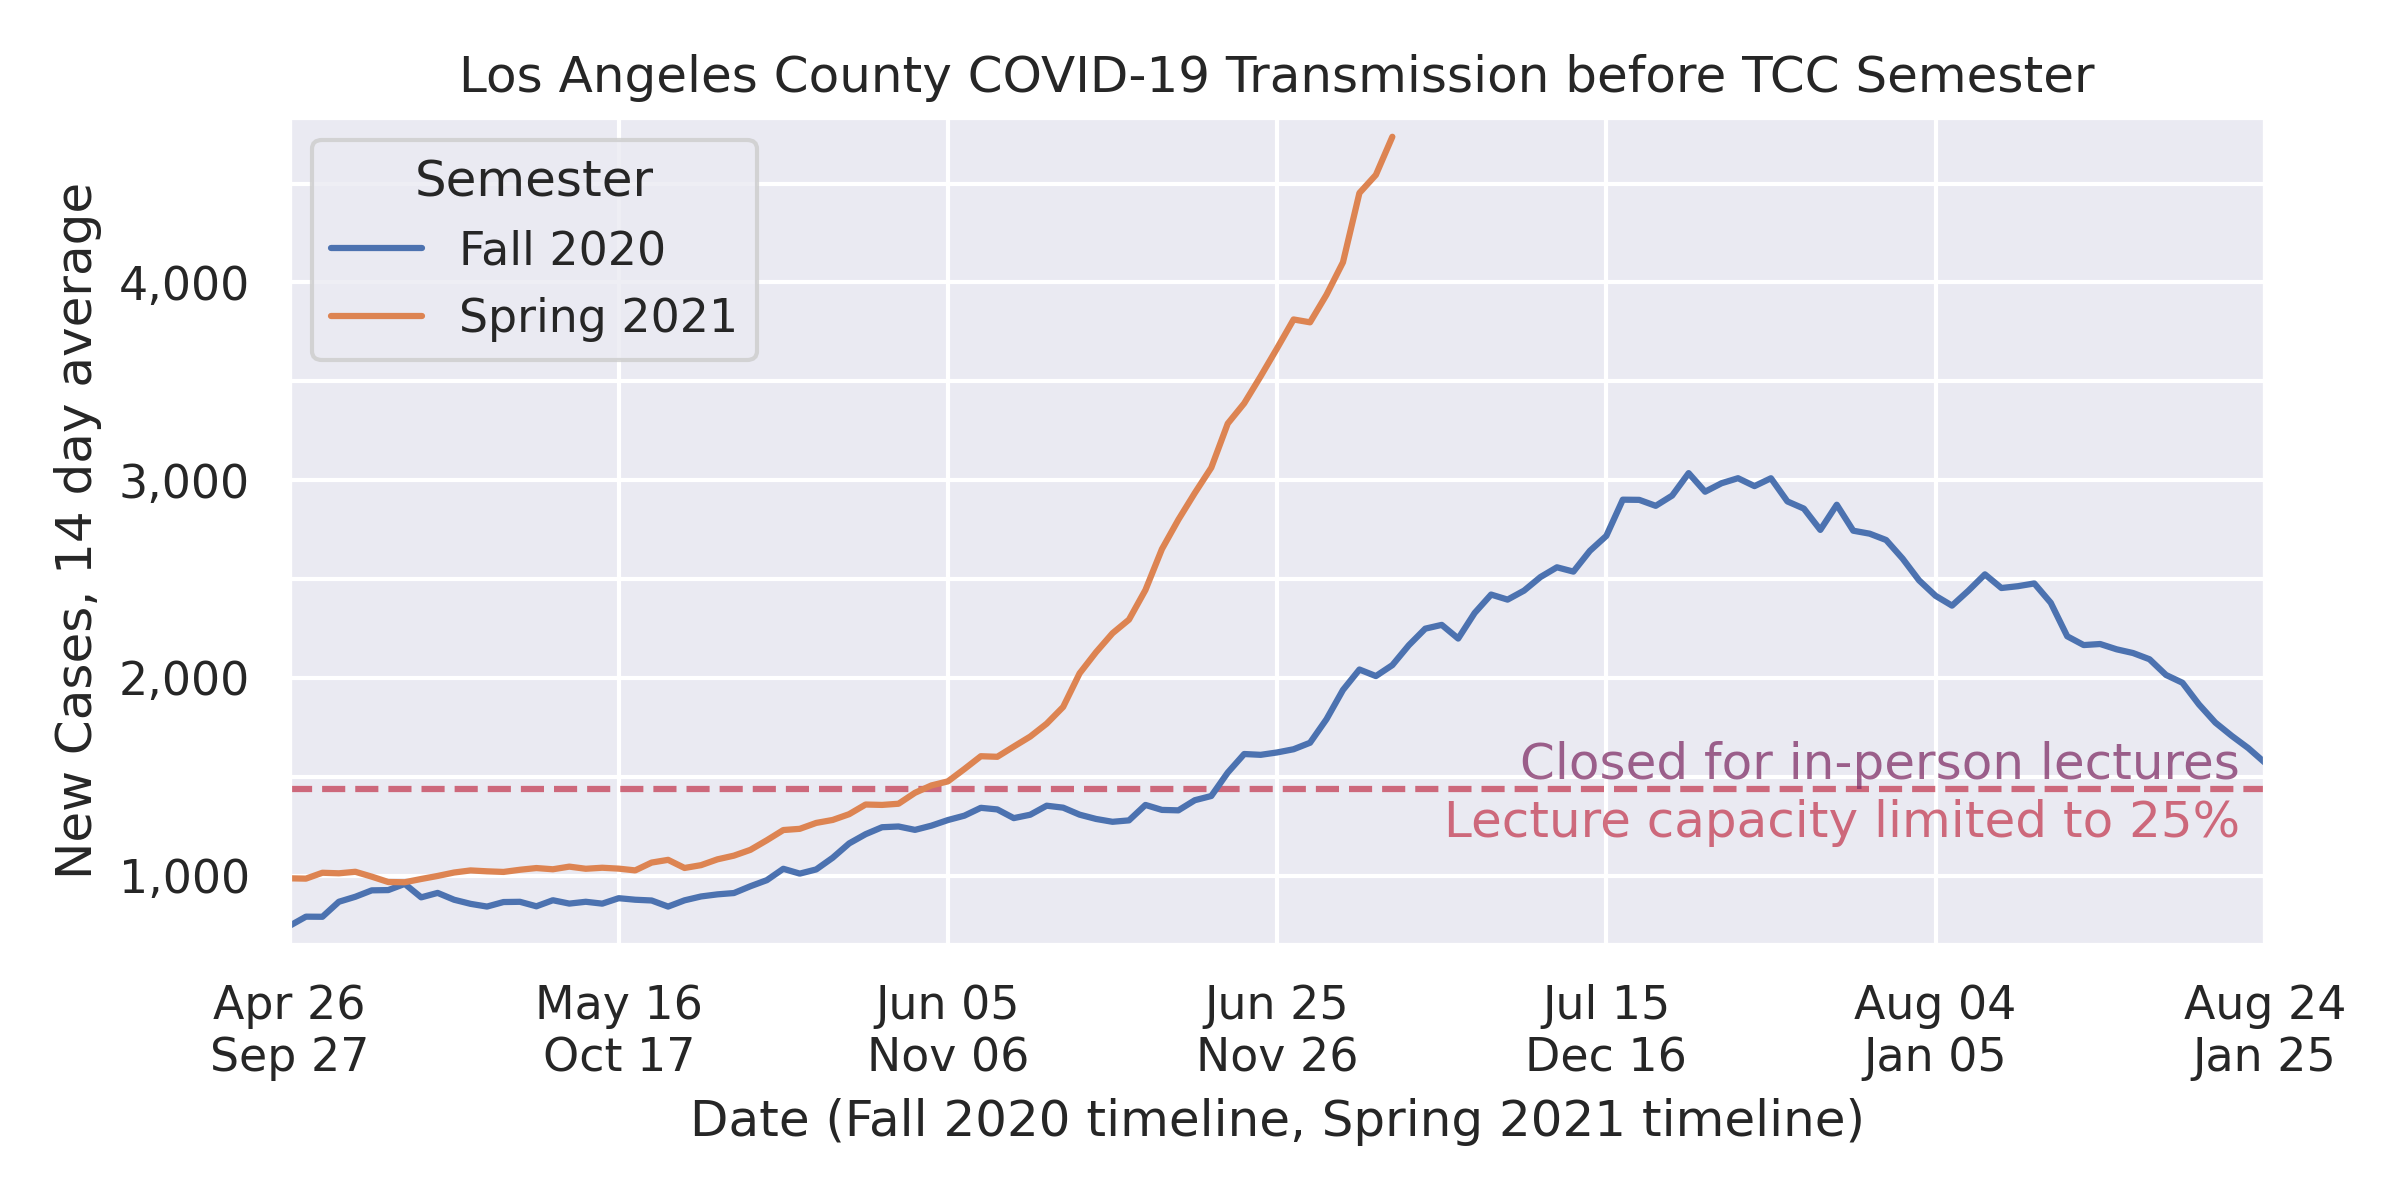
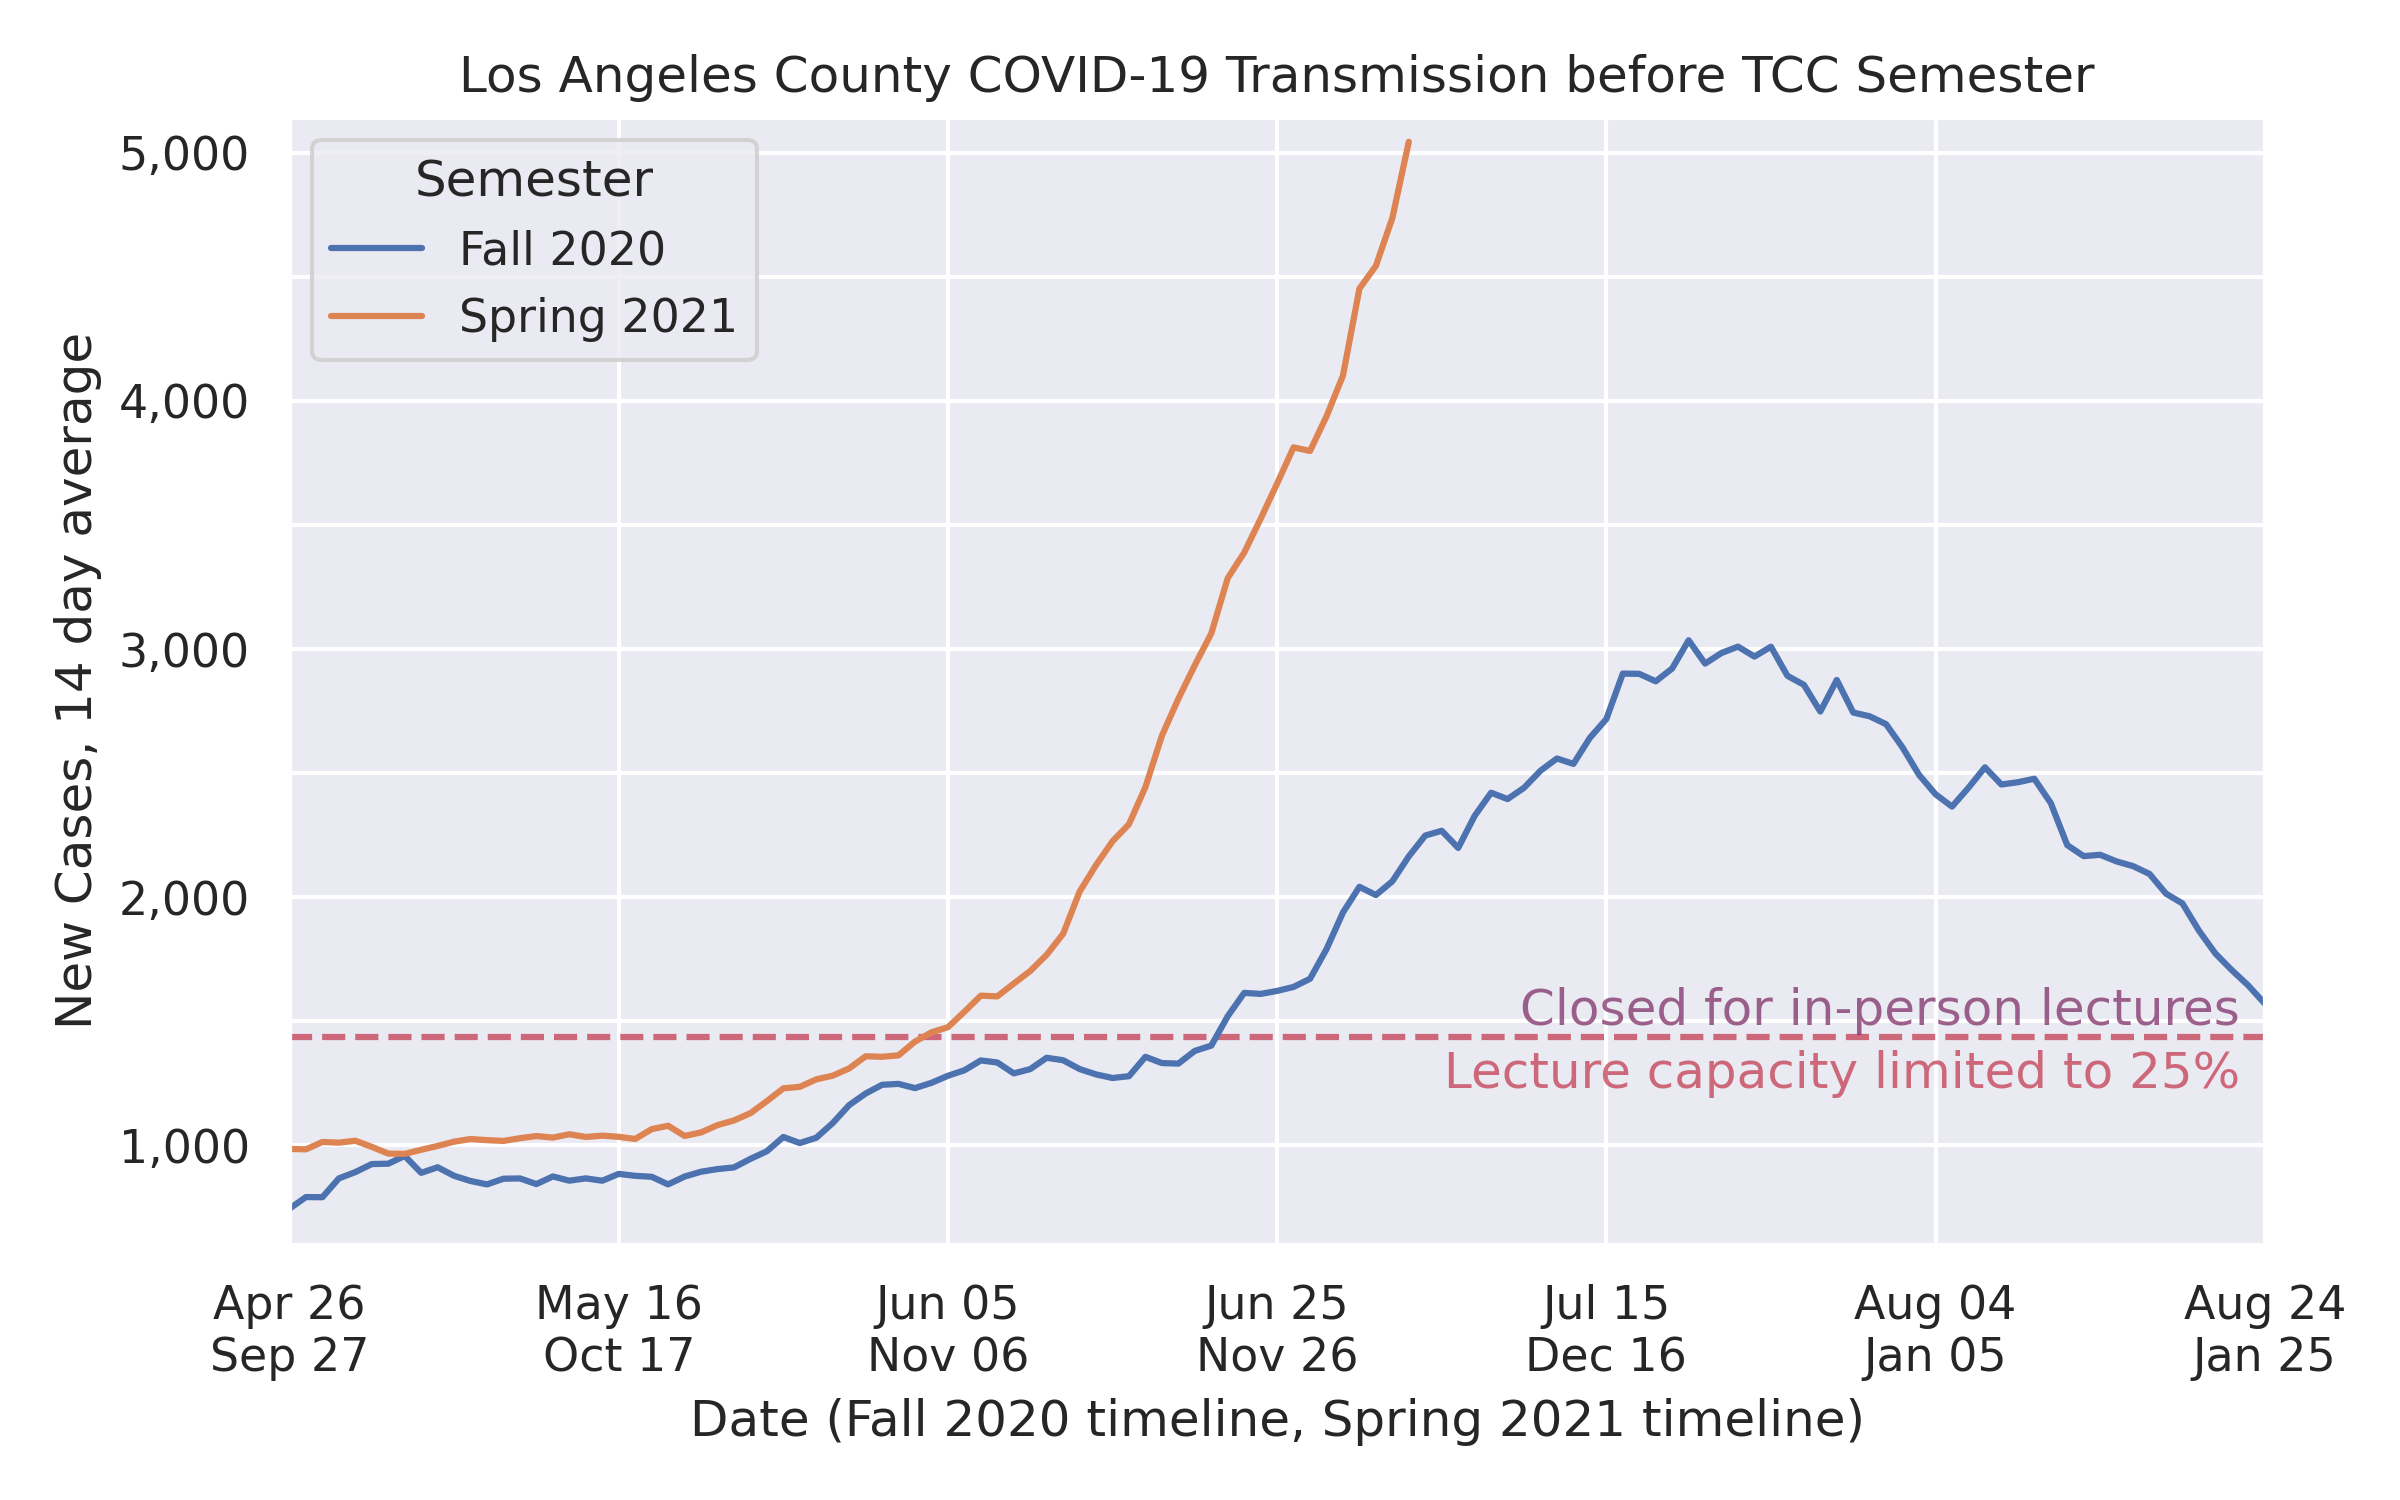
Update 2020-12-05
Graph dimensions updated to account for larger y values

diff --git a/semester_start_countdown.py b/semester_start_countdown.py
@@ -146,7 +146,7 @@ df_la = df_la.loc[:, (DATE, SEMESTER, DAYS_UNTIL_SEMESTER,
 # In[ ]:
 
 
-fig, ax = plt.subplots(figsize=(8, 4), dpi=300)
+fig, ax = plt.subplots(figsize=(8, 5), dpi=300)
 
 rate_multiplier = (10_257_557 / 1e5) / 0.500
 substantial_rate, moderate_rate = [rate_multiplier * x for x in (7, 4)]
@@ -178,7 +178,7 @@ ax.set_ylabel(NEW_CASES_AVG)
 ax.set_xlim(120, 0)
 ax.xaxis.set_major_formatter(FuncFormatter(date_axis_text))
 # ax.set_ylim(moderate_rate-vertical_pad-250, df_la[NEW_CASES_AVG].max()+100)
-ax.set_ylim(650, df_la[NEW_CASES_AVG].max()+100)
+ax.set_ylim(600, df_la[NEW_CASES_AVG].max()+100)
 ax.legend(loc='upper left', title=SEMESTER)
 
 fig.savefig('docs/semester-start-v-new-cases.png')
@@ -188,7 +188,7 @@ fig.show()
 # In[ ]:
 
 
-fig, ax = plt.subplots(figsize=(8, 4), dpi=300)
+fig, ax = plt.subplots(figsize=(8, 5), dpi=300)
 ax.plot(DAYS_UNTIL_SEMESTER, HOSPITALIZED_ALL_AVG, 'b--', label='Fall 2020, Confirmed & Suspected',
         data=df_la[df_la[SEMESTER] == FALL_2020])
 ax.plot(DAYS_UNTIL_SEMESTER, HOSPITALIZED_CONFIRMED_AVG, 'b-', label='Fall 2020, Confirmed',
@@ -206,7 +206,7 @@ ax.xaxis.set_major_formatter(FuncFormatter(date_axis_text))
 ax.set_ylabel('Hospitalized, 3 day avgerage')
 ax.set_title('Los Angeles County COVID-19 Hospital Patients before TCC Semester')
 ax.set_xlim(120, 0)
-ax.set_ylim(-350, df_la[HOSPITALIZED_ALL_AVG].max()+100)
+ax.set_ylim(-100, df_la[HOSPITALIZED_ALL_AVG].max()+100)
 
 ax.legend(title='Semester, Patient COVID-19 Diagnosis', loc='lower right',
           ncol=2, fontsize='small', title_fontsize='small')
